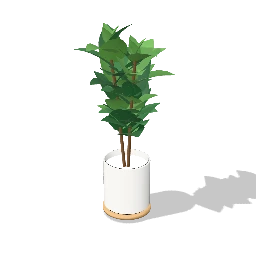
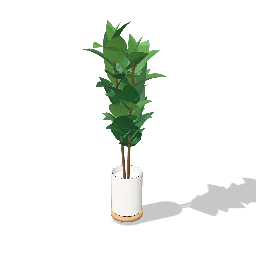
Keep the potted fig small enough for the sample foyer
At 600 mm square it no longer fitted the sample home's foyer, where the assistant e2e test places it; 480 mm square fits.

Changed region(s): [[0.2812, 0.0625, 1.0, 0.9062], [0.375, 0.5938, 0.4375, 0.7188]]

diff --git a/packages/catalog/src/entries/decor.ts b/packages/catalog/src/entries/decor.ts
@@ -13,7 +13,7 @@ export const DECOR_ENTRIES: CatalogEntry[] = [
     params: { fringe: true, band: false },
   }),
   gen('rug.doormat', 'Doormat', 'decor', ['foyer', 'balcony', 'bathroom'], 'decorRug', [750, 450, 18], ['mat', 'entry mat', 'bath mat'], { slots: RUG_SLOTS.coir, params: { band: false } }),
-  gen('plant.potted', 'Fiddle-leaf fig', 'decor', ['living', 'bedroom', 'foyer', 'balcony', 'study', 'dining'], 'decorPlant', [600, 600, 1450], ['plant', 'indoor plant', 'snake plant', 'greenery', 'fig'], {
+  gen('plant.potted', 'Fiddle-leaf fig', 'decor', ['living', 'bedroom', 'foyer', 'balcony', 'study', 'dining'], 'decorPlant', [480, 480, 1450], ['plant', 'indoor plant', 'snake plant', 'greenery', 'fig'], {
     slots: PLANT_SLOTS.floor,
     params: { species: 'fiddle' },
   }),
